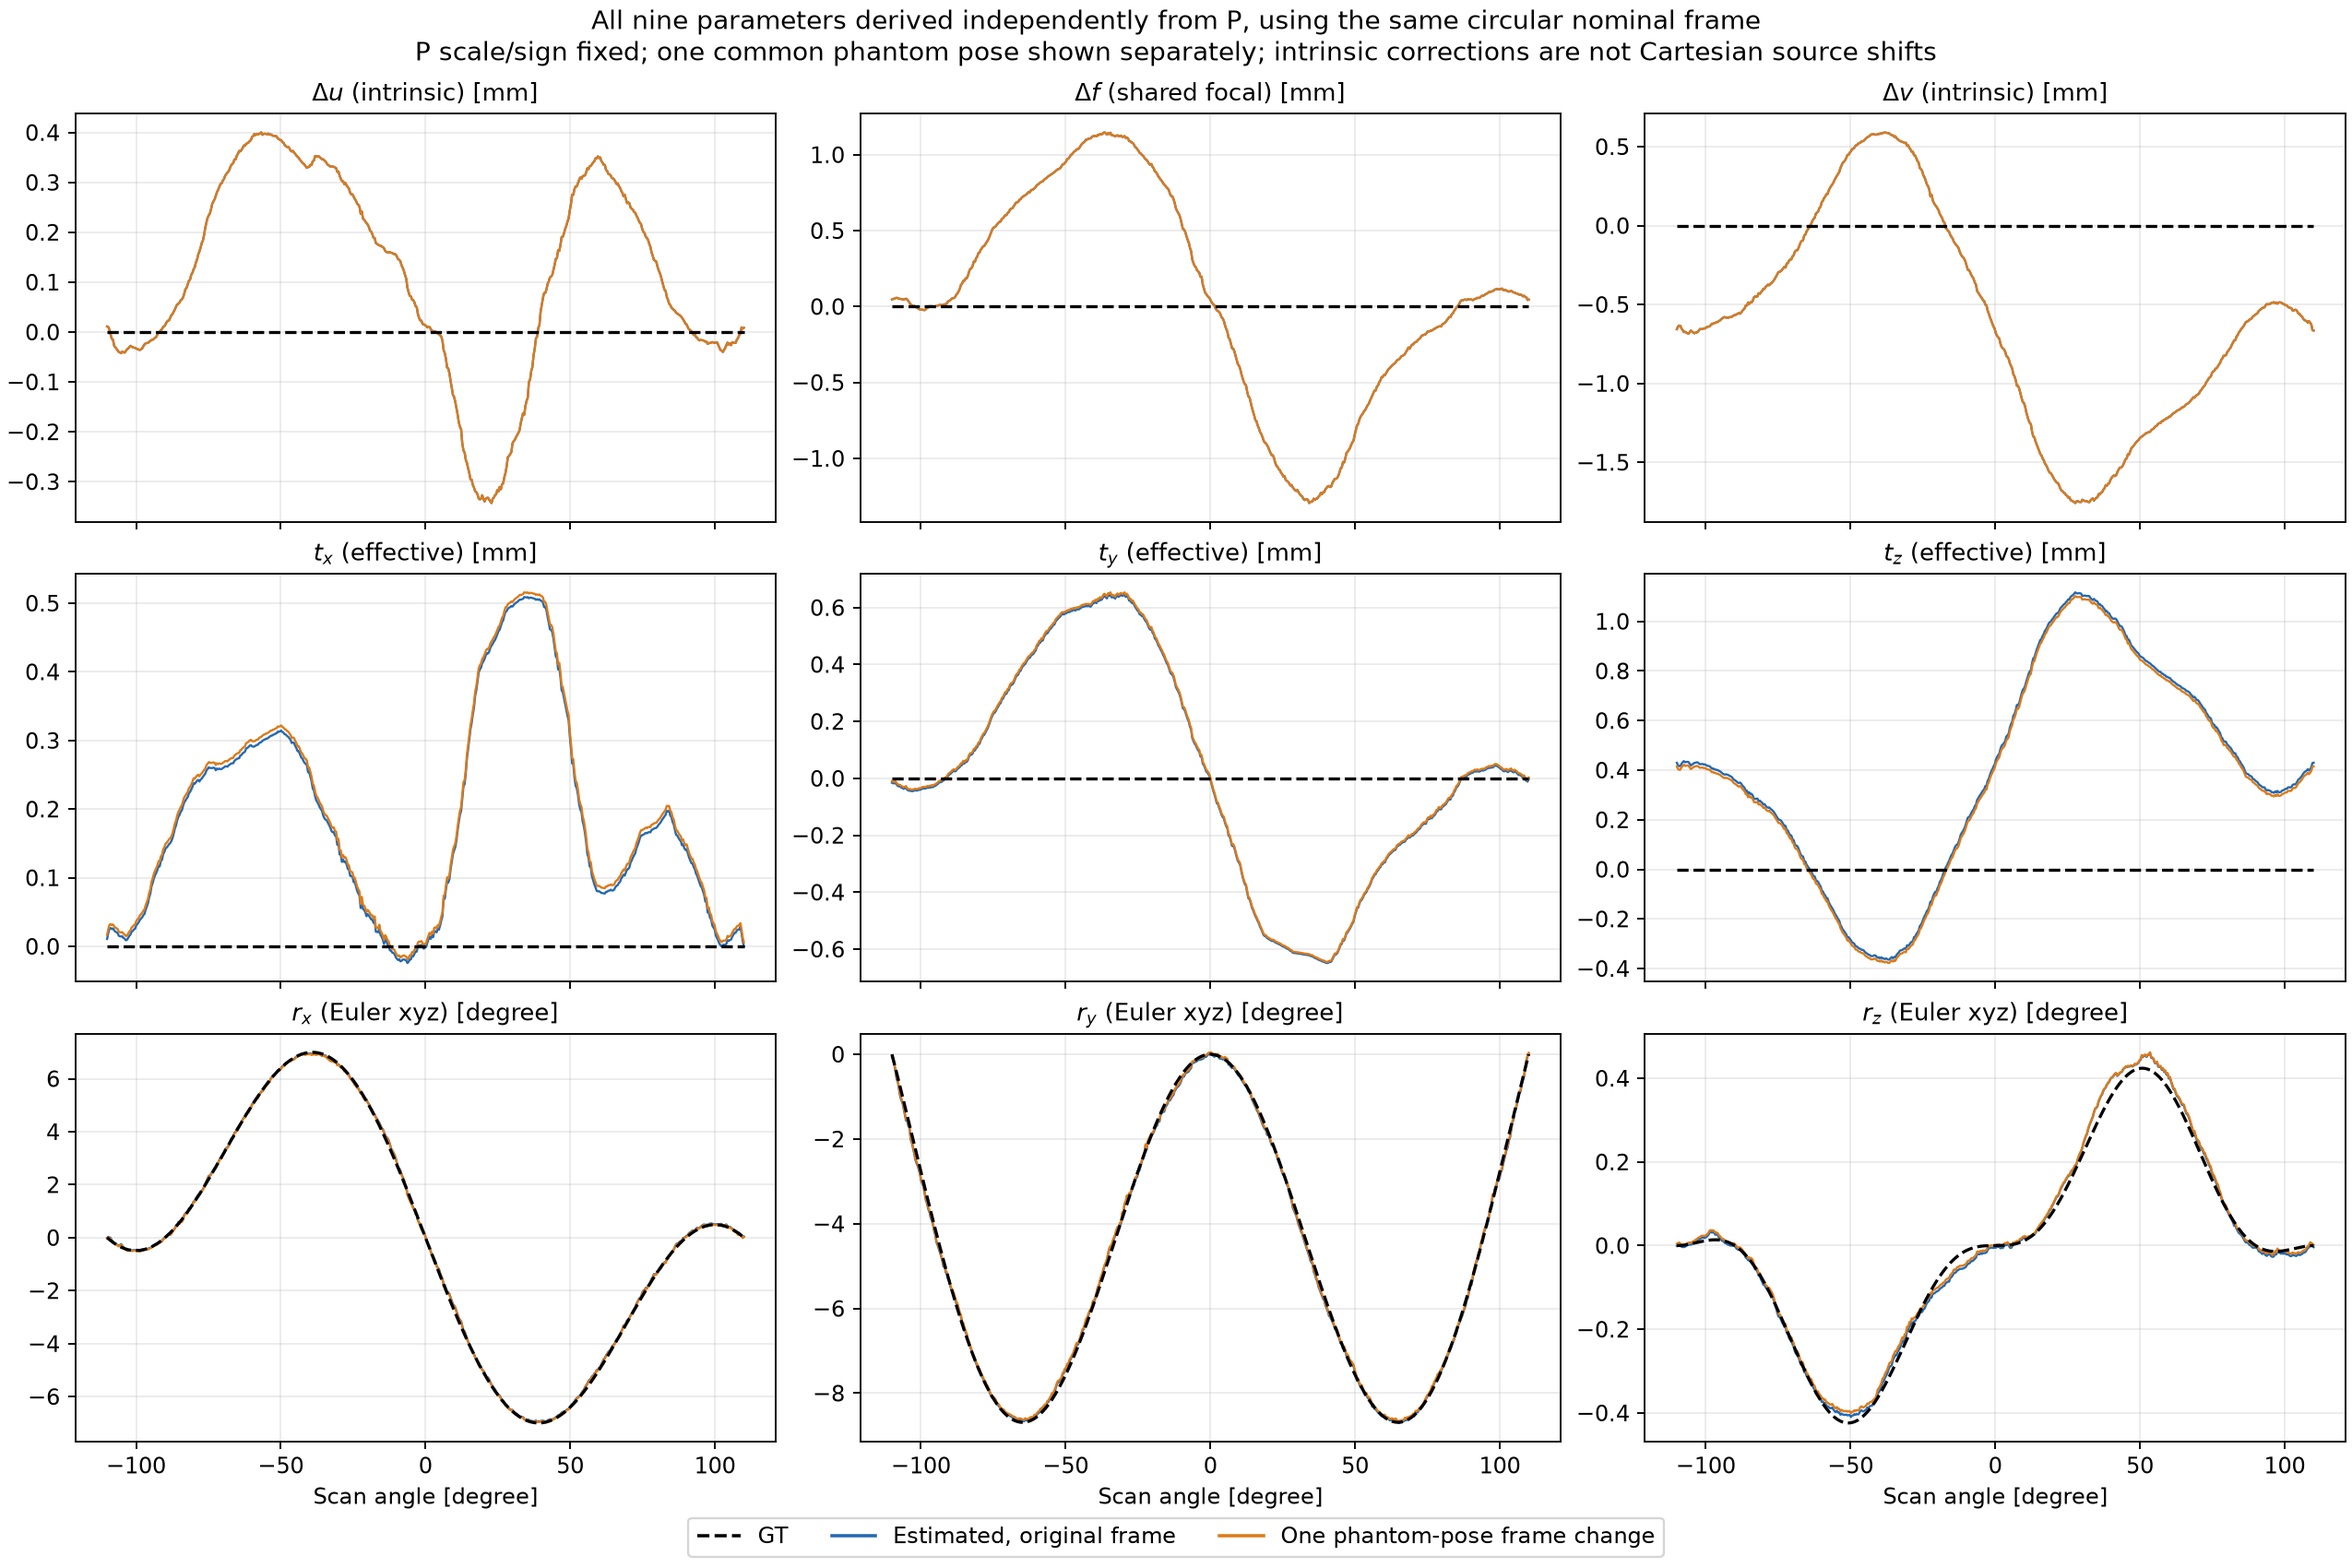
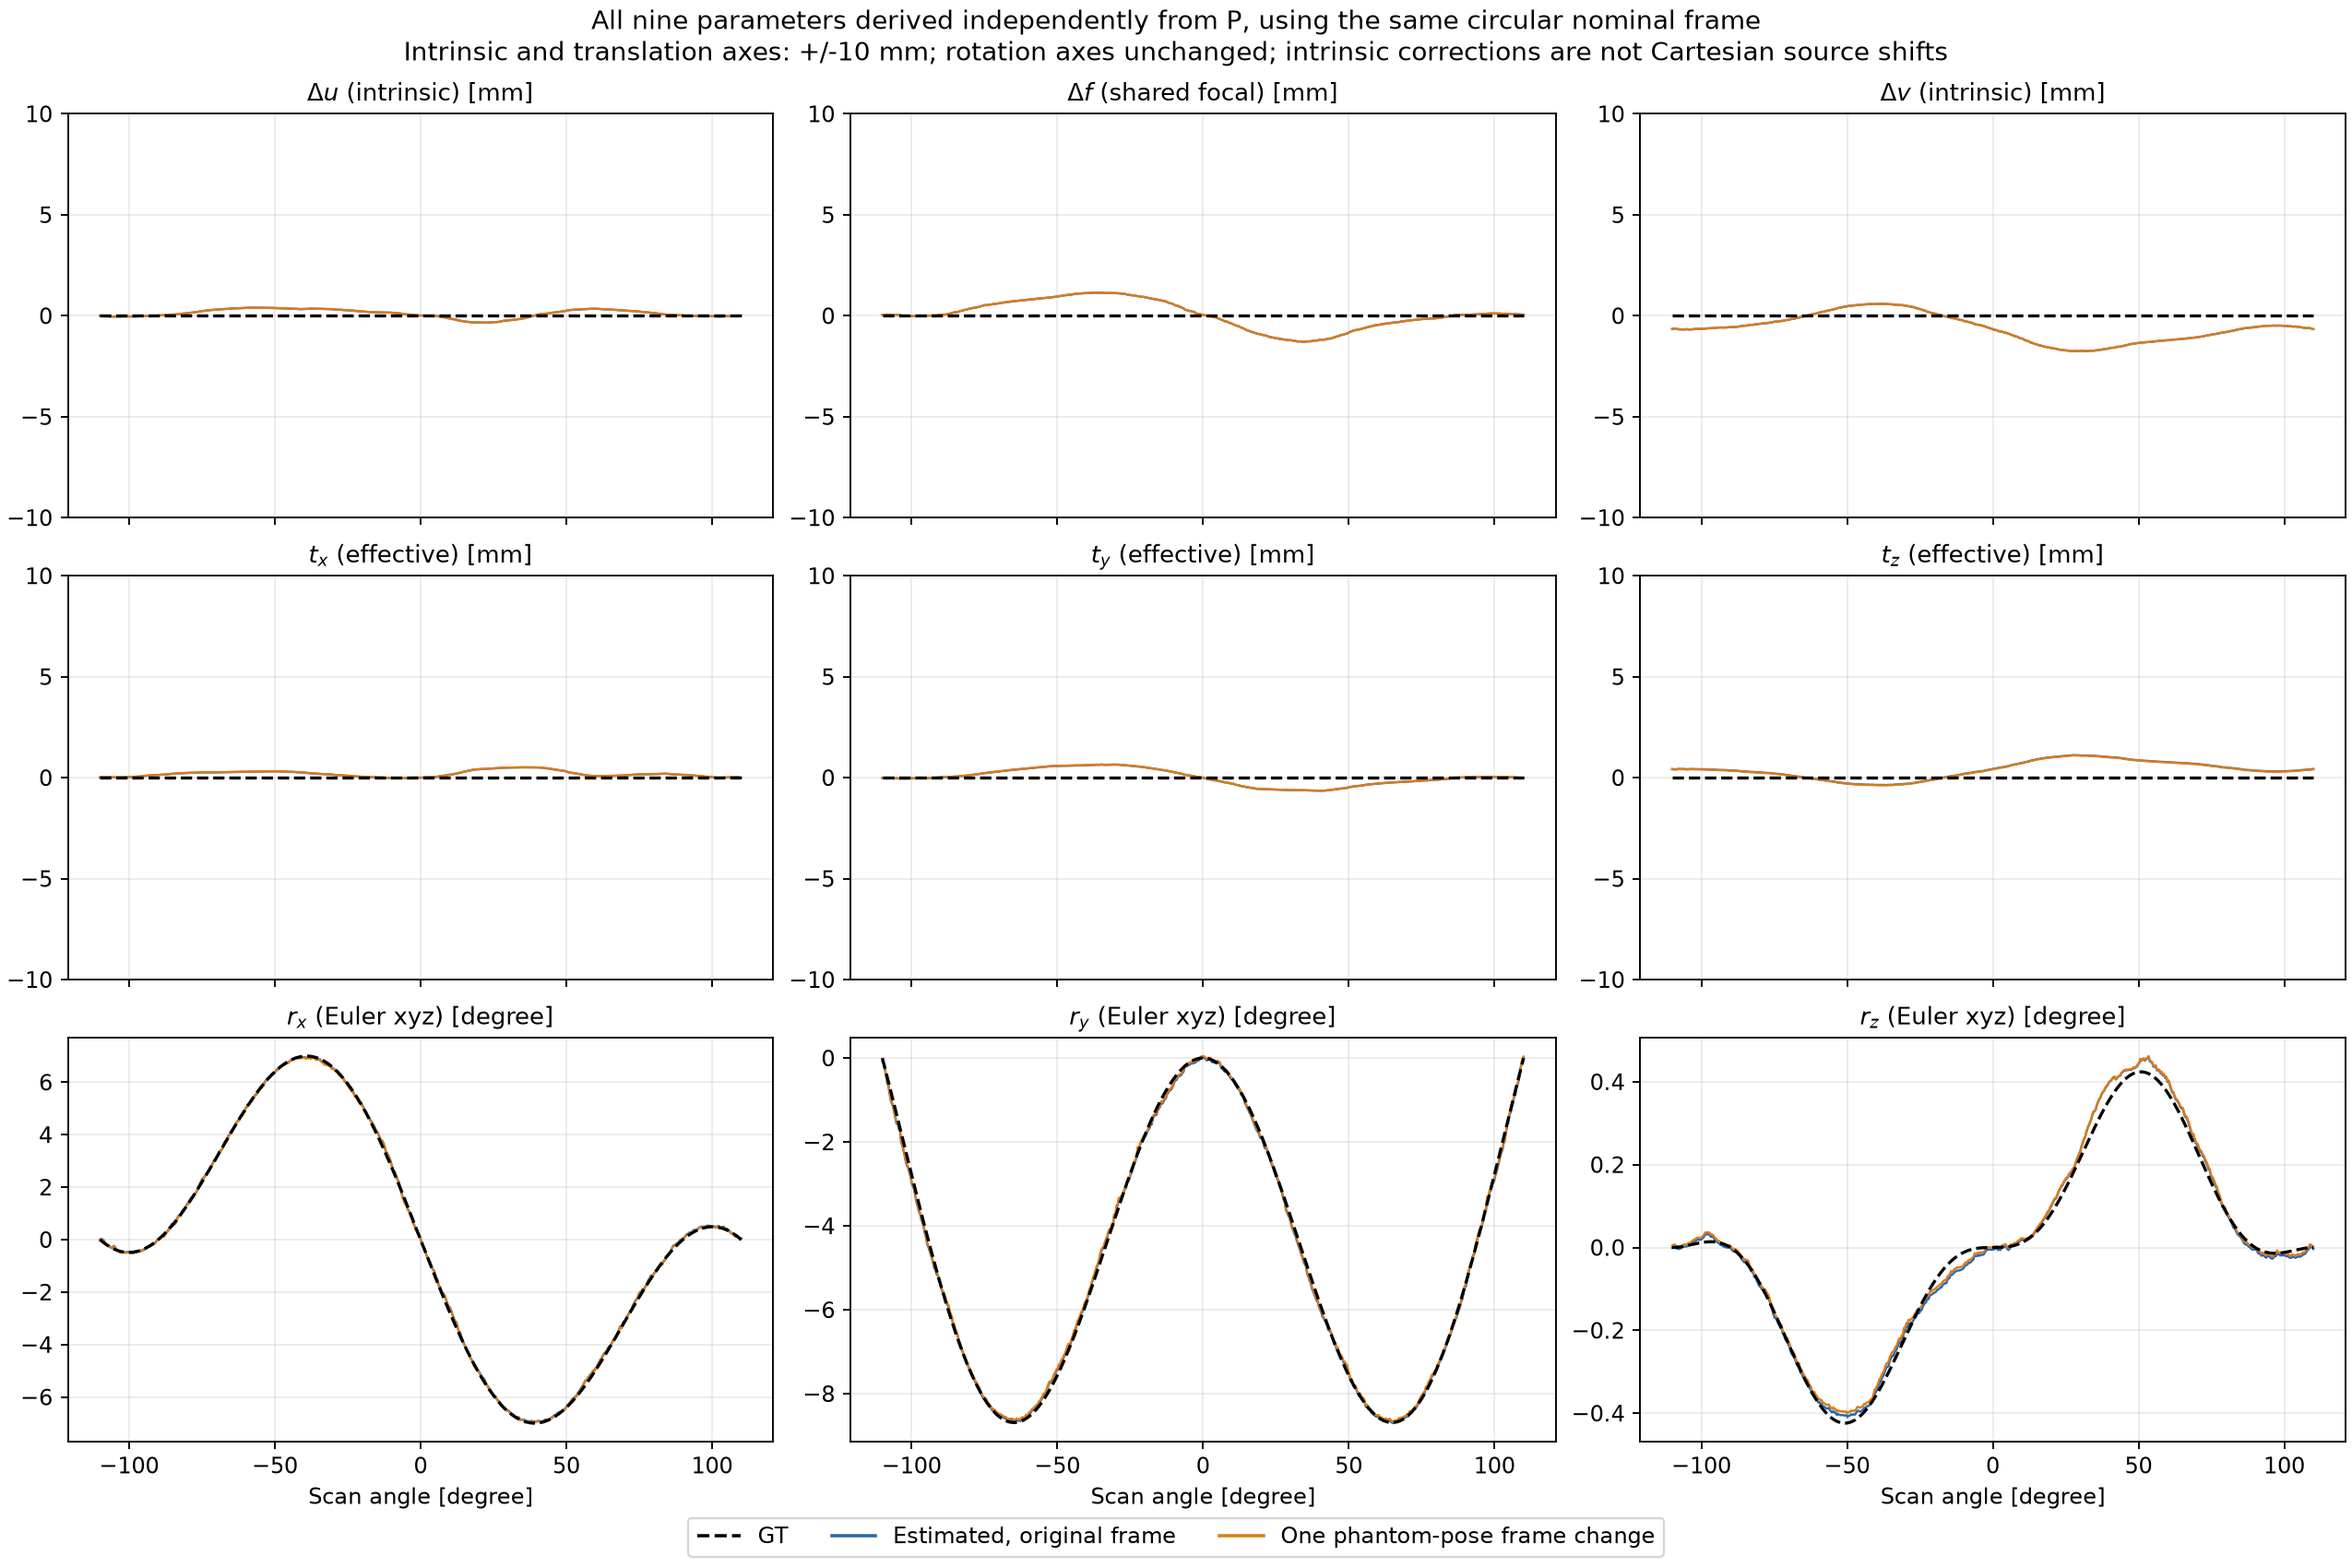
Use fixed 10 mm axes for canonical camera parameters

diff --git a/report_sinespin_pose.py b/report_sinespin_pose.py
@@ -132,10 +132,13 @@ def make_figures(out, theta, cameras, singular, gram, title):
             ax.plot(theta, cameras[name]['parameters_9'][:, j], color=colors[name],
                     lw=1.4 if name=='truth' else 1., ls='--' if name=='truth' else '-', label=names[name])
         ax.set_title(labels[j], fontsize=11); ax.grid(alpha=.25)
+        if j < 6:
+            ax.set_ylim(-10., 10.)
+            ax.set_yticks([-10., -5., 0., 5., 10.])
         if j>=6: ax.set_xlabel('Scan angle [degree]')
     fig.legend([Line2D([], [], color=colors[n], ls='--' if n=='truth' else '-') for n in names],
                list(names.values()), loc='outside lower center', ncol=3)
-    fig.suptitle('All nine parameters derived independently from P, using the same circular nominal frame\nP scale/sign fixed; one common phantom pose shown separately; intrinsic corrections are not Cartesian source shifts')
+    fig.suptitle('All nine parameters derived independently from P, using the same circular nominal frame\nIntrinsic and translation axes: +/-10 mm; rotation axes unchanged; intrinsic corrections are not Cartesian source shifts')
     fig.savefig(out/'canonical_parameters9.png', dpi=170); plt.close(fig)
 
     fig, axs = plt.subplots(1, 2, figsize=(13, 5), layout='constrained')

diff --git a/docs/sinespin_pose_gauge.md b/docs/sinespin_pose_gauge.md
@@ -24,6 +24,8 @@ Signed LNCC31의 **seed 1, 고정 100 epoch** 결과를 분석했다. 소스 위
 
 ![9개 파라미터의 GT 및 정렬 전후 비교](sinespin_seed1_parameters9.png)
 
+내부 파라미터 3개와 translation 3개의 세로축은 실제 설정 범위인 **−10~+10 mm**로 통일했다. 회전 3개의 축 범위는 이전 그림 그대로다. 이는 표시 범위만 바꾼 것으로, 작은 잔차는 [GT 대비 물리량 오차 그림](sinespin_physical_parameters.md)에서 확대해 확인할 수 있다. 추정값과 P는 바꾸지 않았다.
+
 이번 GT는 nominal 원궤도를 중심 회전으로 sineSpin에 대응시킬 수 있어, 이 effective 표현에서 GT의 Δu·Δf·Δv와 이동 3개는 0이다. 추정값에서 이들이 0이 아닌 것은 측정된 파라미터 오차다. 회전이 실제 소스 위치를 크게 움직이므로 이 6개 값만으로 소스 궤도 오차를 판단해서는 안 된다.
 
 ## 관측 영상으로 구한 팬텀 pose
